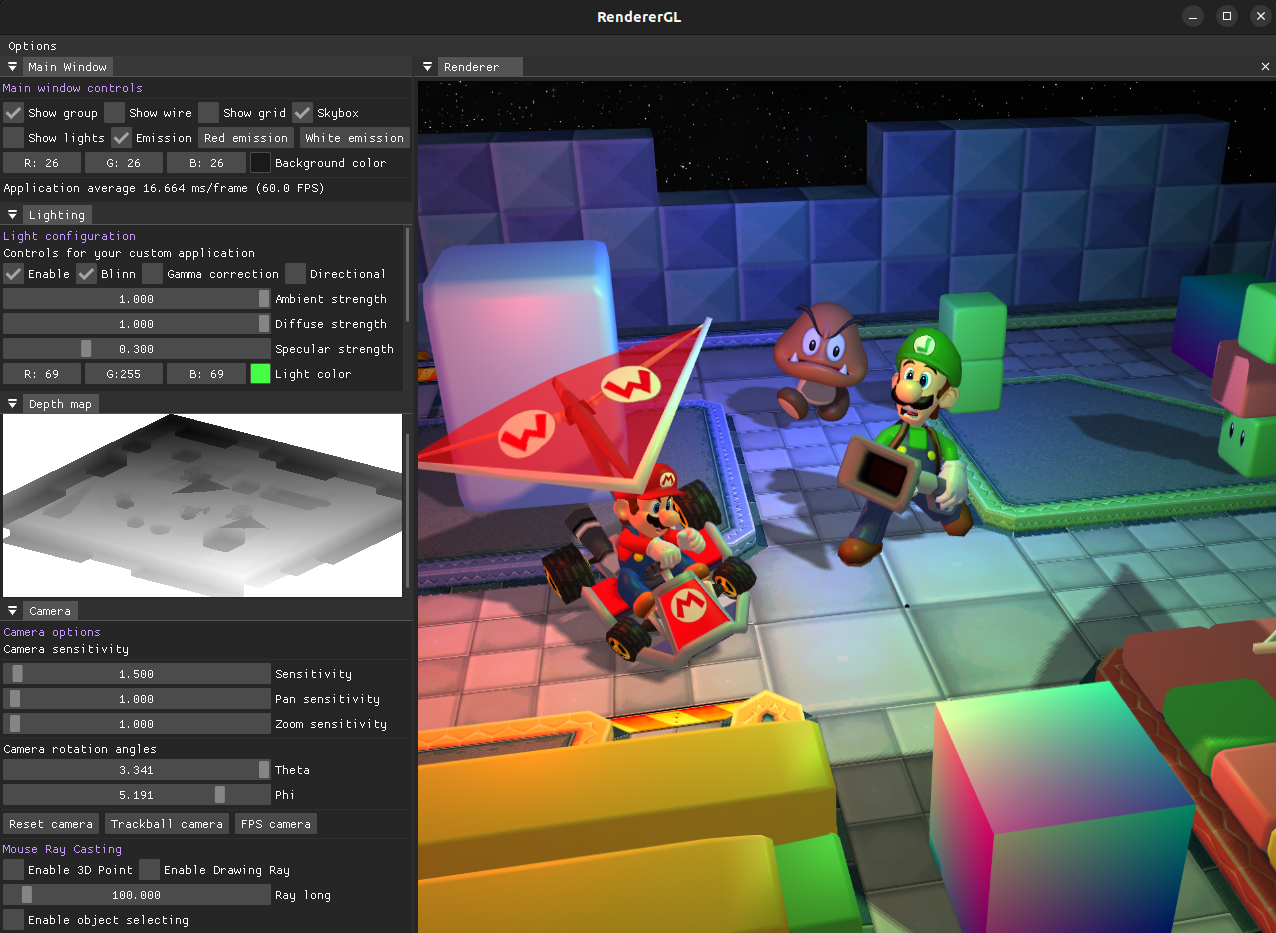
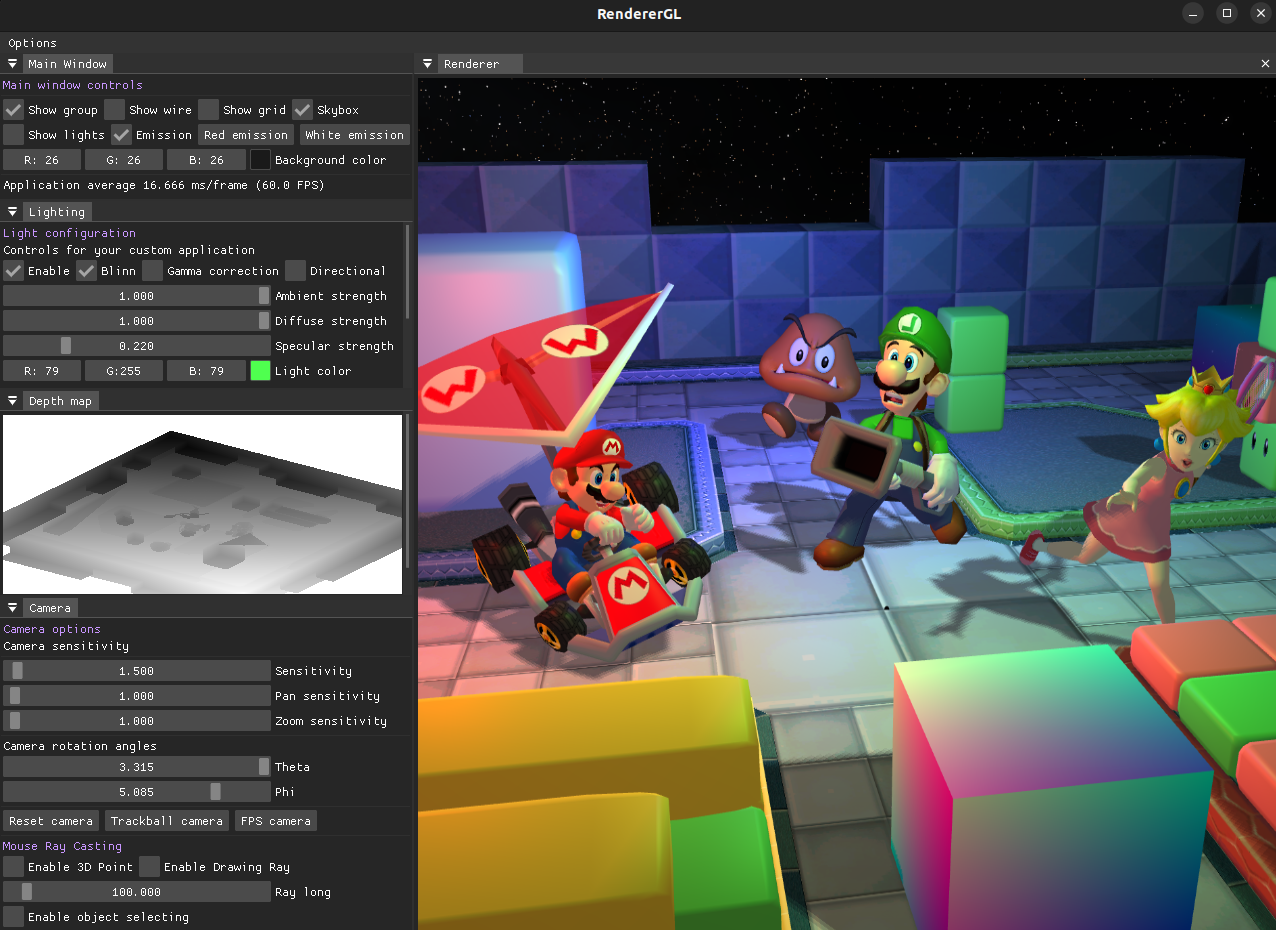
Example scene

diff --git a/src/main.cpp b/src/main.cpp
@@ -287,8 +287,8 @@ int main(void) {
     model2.scale(glm::vec3(0.1, 0.1, 0.1));
     renderer->addGroup(model2);
 
-    Model model3("/home/morcillosanz/Desktop/model/BowserKart/Bowser.dae");
-    model3.translate(glm::vec3(-3, 0.30, 3.0));
+    Model model3("/home/morcillosanz/Desktop/model/PeachTennis/Model.dae");
+    model3.translate(glm::vec3(-1.5, 0, 0.8));
     model3.scale(glm::vec3(0.1, 0.1, 0.1));
     renderer->addGroup(model3);
 
